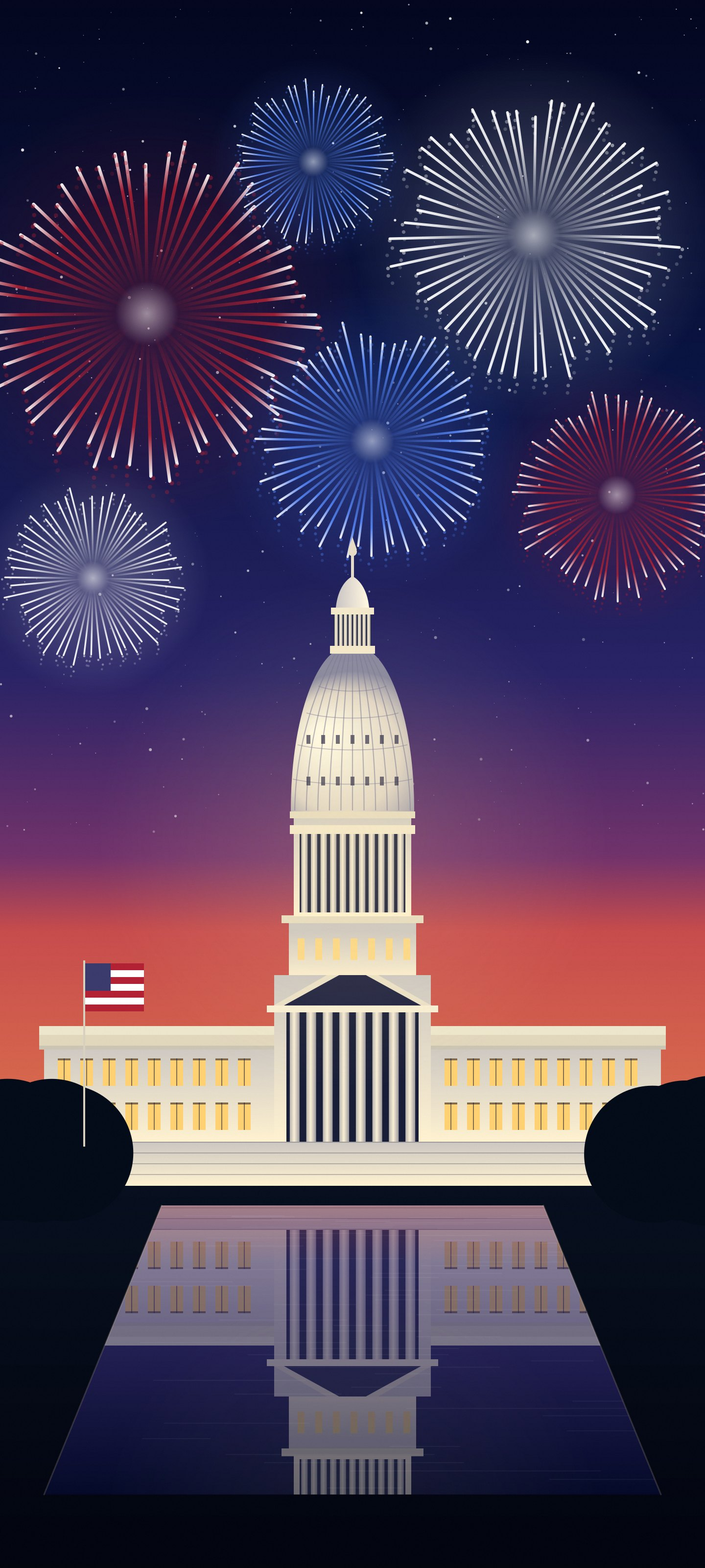
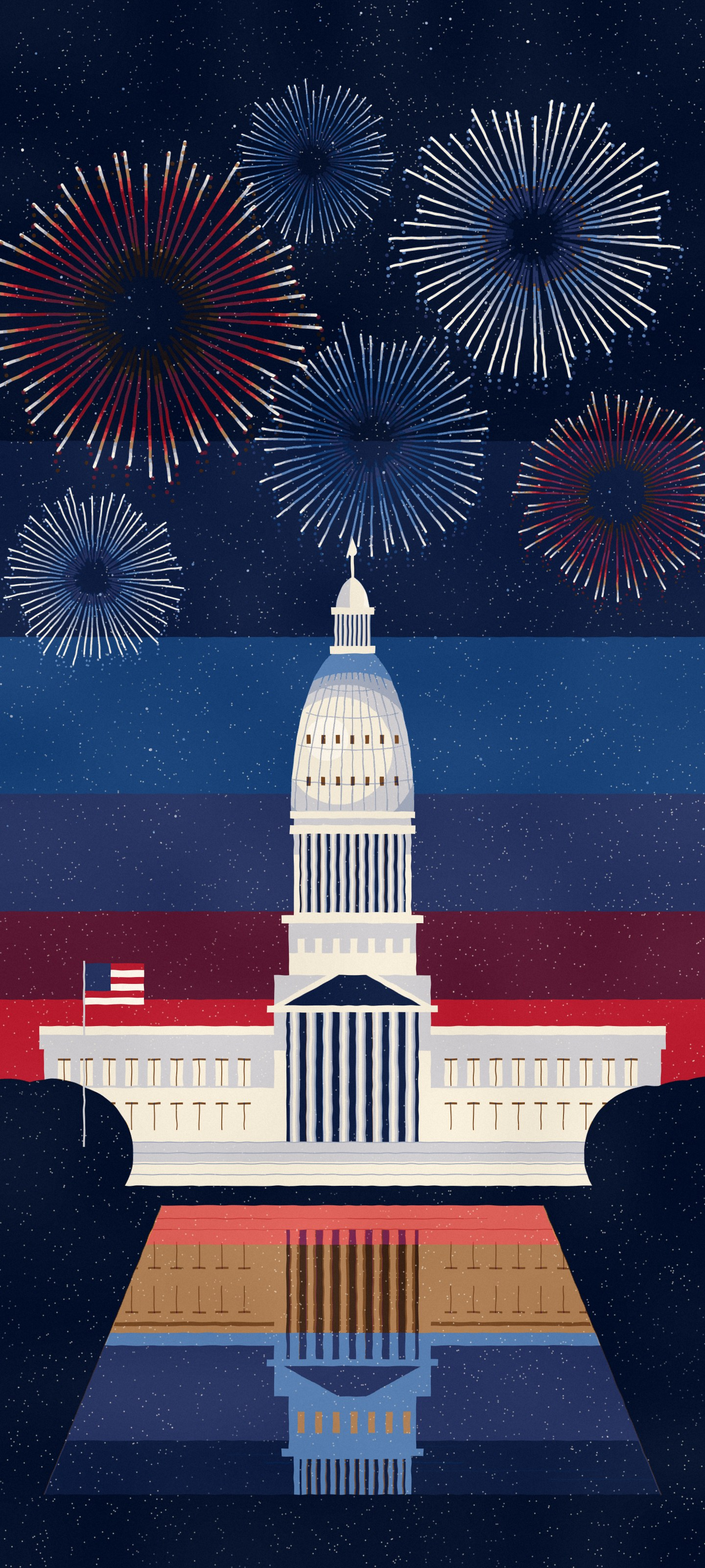
Hotfix 251 (22.0) / Hintergruende 3.4: USA-Hintergruende im Siebdruck-Stil statt KI-Glanz
Claude-Session: https://claude.ai/code/session_01HyNDa6rsXpdehQeXA1aU6Y

diff --git a/shared/wallpaper/java/dev/hearth/launcher/wallpaper/SuperRenderer.kt b/shared/wallpaper/java/dev/hearth/launcher/wallpaper/SuperRenderer.kt
@@ -55,23 +55,23 @@ enum class SuperScene(val label: String, val note: String) {
     ),
     UsaFlag(
         "USA · Stars & Stripes",
-        "Die Flagge der Vereinigten Staaten als wehendes Banner: 50 Sterne im blauen Feld, 13 Streifen, Falten im Wind und Licht von links oben. Von ZENITH selbst gezeichnet. Das Bild folgt der Neigung des Telefons und kommt beim Entsperren näher.",
+        "Die Flagge der Vereinigten Staaten als wehendes Banner: 50 Sterne im blauen Feld, 13 Streifen, Falten im Wind und Licht von links oben. Von ZENITH selbst gezeichnet, im Stil eines Siebdruck-Plakats. Das Bild folgt der Neigung des Telefons und kommt beim Entsperren näher.",
     ),
     UsaWave(
         "USA · Rote Welle",
-        "Eine rote Welle aus Seide mit weißen und blauen Streifen unter einem Sternenhimmel; dreizehn Sterne im Kreis, einer groß in der Mitte. Von ZENITH selbst gezeichnet.",
+        "Eine rote Welle aus Seide mit weißen und blauen Streifen unter einem Sternenhimmel; dreizehn Sterne im Kreis, einer groß in der Mitte. Von ZENITH selbst gezeichnet, im Stil eines Siebdruck-Plakats.",
     ),
     UsaEagle(
         "USA · Weißkopfseeadler",
-        "Der Weißkopfseeadler mit dem Schild der Stars and Stripes, Olivenzweig und Pfeilen, dreizehn Sterne im Strahlenkranz – im Stil des Wappens, von ZENITH selbst gezeichnet.",
+        "Der Weißkopfseeadler mit dem Schild der Stars and Stripes, Olivenzweig und Pfeilen, dreizehn Sterne im Strahlenkranz – im Stil des Wappens, von ZENITH selbst gezeichnet, als Siebdruck-Plakat.",
     ),
     UsaCapitol(
         "USA · Kapitol bei Nacht",
-        "Das Kapitol in Washington im Flutlicht, mit Feuerwerk in Rot, Weiß und Blau über dem Spiegelbecken. Von ZENITH selbst gezeichnet.",
+        "Das Kapitol in Washington im Flutlicht, mit Feuerwerk in Rot, Weiß und Blau über dem Spiegelbecken. Von ZENITH selbst gezeichnet, im Stil eines Siebdruck-Plakats.",
     ),
     UsaElephant(
         "USA · Roter Elefant",
-        "Der rote Elefant mit weißen Sternen vor der verblassten Flagge – das alte Wahrzeichen der Republikaner (aus dem 19. Jahrhundert), von ZENITH selbst gezeichnet, ohne Parteilogo und ohne Personen.",
+        "Der rote Elefant mit weißen Sternen vor der verblassten Flagge – das alte Wahrzeichen der Republikaner (aus dem 19. Jahrhundert), von ZENITH selbst gezeichnet, als Siebdruck-Plakat, ohne Parteilogo und ohne Personen.",
     ),
     Geometry("Geometrie", "Ein Ikosaeder aus Licht mit einem zweiten Körper darin, die beide umeinander drehen."),
     Photo(

diff --git a/app/src/main/java/dev/hearth/launcher/ui/HearthUi.kt b/app/src/main/java/dev/hearth/launcher/ui/HearthUi.kt
@@ -238,6 +238,16 @@ internal object HearthChangelog {
                     hearth,
                 ),
                 ChangeSection(
+                    "USA-Hintergründe: weniger KI-Look", Icons.Rounded.Star, Blue,
+                    listOf(
+                        "Rückmeldung: Die USA-Hintergründe sind schon sehr gut, sehen aber viel zu sehr nach KI aus.",
+                        "Woran man das sah: glänzende Verläufe, Leuchten um alles, Strahlenglanz, glatte Flächen ohne Fehler. Das ist genau, was KI-Bilder verrät – und was ein Mensch am Plakat nicht so zeichnen würde.",
+                        "Jetzt sind alle fünf im Stil eines Siebdruck-Plakats gemacht: eine feste Auswahl von Druckfarben (Rot, Marineblau, Papierweiß, Gold), flache Flächen statt Verläufen, leicht raue Kanten, Papierkorn und winzige Stellen, an denen die Farbe nicht gehalten hat. Die Motive sind dieselben (Stars & Stripes, Rote Welle, Weißkopfseeadler, Kapitol bei Nacht, Roter Elefant); beim Adler sitzt jetzt ein Strahlenkranz aus zwei Blautönen hinter einer hellen Scheibe, beim Elefanten eine nachtblaue Flagge.",
+                        "Ehrlich dazu: Echte Fotos wären die sicherste Antwort auf „sieht nach KI aus“ – von hier aus komme ich aber nicht an die Archive der Behörden und von Wikimedia heran (das Netz ist für diese Umgebung gesperrt). Mit freigegebenem Zugriff oder mit Fotos von dir, die frei verwendet werden dürfen, ginge das. Gesehen habe ich auch das nur am Rechner, nicht auf dem Handy.",
+                    ),
+                    hearth,
+                ),
+                ChangeSection(
                     "Fünf USA-Hintergründe", Icons.Rounded.Star, Blue,
                     listOf(
                         "Rückmeldung: Ins Wallpaper sollen USA-Hintergründe, die in Richtung Republikaner gehen.",

diff --git a/.github/whatsnew.md b/.github/whatsnew.md
@@ -1,6 +1,7 @@
 ZENITH 22.0 „Meridian“ auf ClaudeOS 9.0 „Meridian“
 
 ✨ Neu in 22.0
+• Die fünf USA-Hintergründe sehen nicht mehr nach KI aus – im Stil eines Siebdruck-Plakats gezeichnet: feste Druckfarben, flache Flächen, leicht raue Kanten, Papierkorn; gleiche Motive wie vorher (Stars & Stripes, Rote Welle, Weißkopfseeadler, Kapitol bei Nacht, Roter Elefant); nicht auf einem Handy gesehen
 • Fünf USA-Hintergründe im Super-Wallpaper (und in der App „ZENITH Hintergründe“) – „USA · Stars & Stripes“ (wehende Flagge als Banner), „USA · Rote Welle“, „USA · Weißkopfseeadler“ (Wappenstil mit Schild), „USA · Kapitol bei Nacht“ (Feuerwerk, Spiegelbecken) und „USA · Roter Elefant“ (das alte Wahrzeichen der Republikaner vor der verblassten Flagge); alle von ZENITH selbst gezeichnet – keine Fotos, keine Personen, kein Parteilogo; sie bewegen sich wie ein Foto (Neigung, Seiten, Zoom beim Entsperren); Szene unter Einstellungen → Hintergrund → Super-Wallpaper wählen; nicht auf einem Handy gesehen
 • Glimmer bewegt sich wie die echte Dynamic Island – Federn nach einem Vorbild gemessen: die Insel wächst mit leichtem Nachfedern (breiter 0,44 s, dann tiefer 0,5 s; die Pille bei einem Ereignis mit etwas mehr Federn), schrumpft fester und klappt als Karte am festesten und ohne Überschwingen zurück (0,3 s); Drücken ist schneller (0,18 s, fest), Loslassen federt weicher nach; ob die Insel wächst oder schrumpft, entscheidet jetzt die Feder (vorher nur, ob sie aufgeklappt ist); ein Schutz für den Weichzeichner: kommen beim Überblenden zu viele Bilder zu spät (über 33 ms), lässt Glimmer das Weichzeichnen erst 4 Sekunden, bei Wiederholung doppelt so lange (höchstens eine Minute) weg, ein sauberer Lauf halbiert die Wartezeit wieder; dieselben Federn auch für Glimmer unter Linux; nur Werte und Ideen übernommen, kein Code; nicht auf einem Handy gesehen
 • Shizuku tiefer im normalen System – Einstellungen → System, sobald Shizuku bereit ist: „Rechte & Einrichten“ gibt dem Launcher alle seine Rechte auf einen Tipp (Systemeinstellungen ändern, Nicht stören, alle Dateien, Benachrichtigungen lesen, Bedienungshilfe, Akkusparen-Ausnahme, Apps installieren, geheime Einstellungen) und zeigt, was Android noch zurückhält; ZENITH lässt sich ohne Umweg zum Startbildschirm machen; Shizuku darf sich nach dem Neustart selbst starten (neuere Version nötig); Bildschirm sperren (auch Doppeltippen), Bildschirmfoto, Zurück, Home, Letzte Apps, Benachrichtigungen und Ausschaltmenü laufen jetzt auch ohne Bedienungshilfe über Shizuku (Kontrollzentrum, Doppeltippen, Assistent); „System-Animationen“ und „Werbeblocker (Privates DNS)“ schreibt der Launcher, sobald er das Recht einmal hat, selbst – auch wenn Shizuku nach einem Neustart nicht läuft; neu: „Anzeige“ (Größe von allem auf dem Bildschirm, 85–120 %) und im Menü einer App „Cache leeren“; nicht auf einem Handy ausprobiert

diff --git a/.github/whatsnew-wallpapers.md b/.github/whatsnew-wallpapers.md
@@ -1,3 +1,4 @@
+Neu in 3.4: die fünf USA-Hintergründe sehen nicht mehr nach KI aus – statt glänzender Verläufe, Leuchten und Strahlenglanz jetzt im Stil eines Siebdruck-Plakats: feste Druckfarben, flache Flächen, leicht raue Kanten, Papierkorn und winzige Stellen, an denen die Farbe nicht gehalten hat; gleiche Motive (Flagge, Rote Welle, Adler, Kapitol, Elefant).
 Neu in 3.3: fünf USA-Hintergründe, von uns selbst gezeichnet – „USA · Stars & Stripes“ (die Flagge als wehendes Banner), „USA · Rote Welle“ (eine rote Seidenwelle mit weißen und blauen Streifen unter dreizehn Sternen), „USA · Weißkopfseeadler“ (der Adler mit dem Schild, im Stil des Wappens), „USA · Kapitol bei Nacht“ (mit Feuerwerk und Spiegelbecken) und „USA · Roter Elefant“ (das alte Wahrzeichen der Republikaner vor der verblassten Flagge); sie folgen der Neigung und kommen beim Entsperren näher wie ein Foto; nur in der App mit allen Szenen („Hintergründe“); keine Fotos, keine Personen, kein Parteilogo.
 Neu in 3.2: „Smaragd“ gibt es in zehn Farben (Smaragd, Schwarz, Rot, Blau, Violett, Gold, Rosa, Orange, Türkis, Silber) – die Taste „Farbe“ erscheint nur, solange „Smaragd“ die gewählte Szene ist.
 Neu in 3.1: Bei „Video 1/2“ steht die Taste „Video aus der Galerie wählen“ ganz oben, die Galerie öffnet sich beim Wählen der Szene von selbst; Schalter und Regler, die ein Video nicht braucht, sind ausgeblendet. Die App bringt kein Video mit – du wählst deins einmal.
